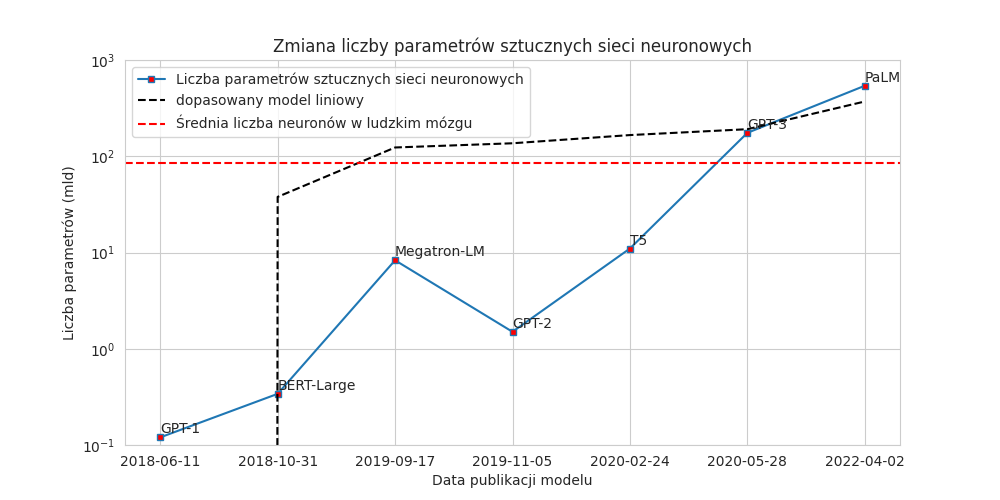
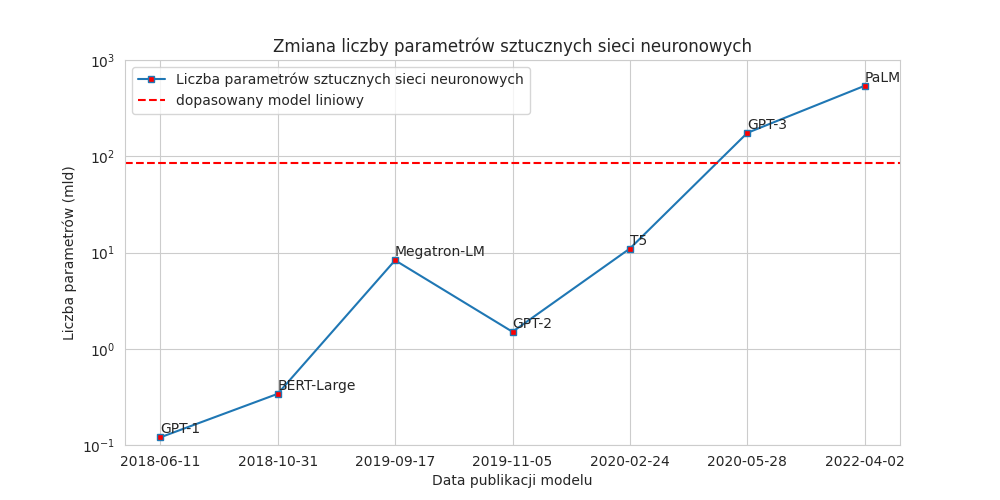
add recent

diff --git a/other/forward_pass.py b/other/forward_pass.py
@@ -1,0 +1,80 @@
+import snntorch as snn
+import snntorch.functional as SF
+
+import torch
+import torch.nn as nn
+
+import numpy as np
+import matplotlib.pyplot as plt
+
+from toolbox import forward_pass
+
+torch.set_printoptions(precision=3, sci_mode=False, linewidth=150)
+
+def plot_spiking_history(spk, mem):
+    mem = mem.squeeze()
+    spk = spk.squeeze()
+    n_neurons = mem.shape[1]
+    n_steps = mem.shape[0]
+
+    for n in range(n_neurons):
+        plt.plot(mem[:, n])
+
+    for step in range(n_steps):
+        for n in range(n_neurons):
+            if spk[step, n] == 1:
+                plt.axvline(step, linestyle="--")
+
+num_inputs = 2
+num_hidden = 2
+num_outputs = 2
+num_steps = 100
+beta = 0.99
+
+class Net(nn.Module):
+    def __init__(self):
+        super().__init__()
+
+        # Initialize layers
+        self.fc1 = nn.Linear(num_inputs, num_hidden)
+        self.lif1 = snn.Leaky(beta=beta)
+        self.fc2 = nn.Linear(num_hidden, num_outputs)
+        self.lif2 = snn.Leaky(beta=beta)
+
+    def forward(self, x):
+
+        # Initialize hidden states at t=0
+        mem1 = self.lif1.init_leaky()
+        mem2 = self.lif2.init_leaky()
+
+        # Record the final layer
+        spk2_rec = []
+        mem2_rec = []
+
+        for step in range(num_steps):
+            print("\n\n\nstep:", step)
+            cur1 = self.fc1(x)
+            print("cur1 is \n", cur1)
+            spk1, mem1 = self.lif1(cur1, mem1)
+            print("spk1 is \n", spk1, "\nmem1 is \n", mem1)
+            cur2 = self.fc2(spk1)
+            print("cur2 is \n", cur2, "\nmem2 is \n", mem2)
+            spk2, mem2 = self.lif2(cur2, mem2)
+            print("spk2 is \n", spk2)
+            spk2_rec.append(spk2)
+            mem2_rec.append(mem2)
+
+        return torch.stack(spk2_rec, dim=0), torch.stack(mem2_rec, dim=0)
+
+    
+net = Net()
+
+for name, param in net.named_parameters():
+    print(name, param.data)
+
+with torch.no_grad():
+    net.eval()
+    x = torch.tensor([[0, 1]], dtype=torch.float32)
+    spk, mem = net(x)
+
+plot_spiking_history(spk, mem)

diff --git a/other/activation_snn.py b/other/activation_snn.py
@@ -1,0 +1,69 @@
+import snntorch as snn
+import snntorch.functional as SF
+
+import torch
+import torch.nn as nn
+
+import numpy as np
+import matplotlib.pyplot as plt
+
+from toolbox import forward_pass
+import seaborn as sns
+
+sns.set_style("whitegrid")
+
+# simple snn model 
+net = nn.Sequential(
+    # nn.Linear(1, 1, bias=False),
+    snn.Leaky(beta=0.99, threshold=0.5, spike_grad=True, init_hidden=True, output=True)
+)
+
+# optimizer = torch.optim.Adam(net.parameters(), lr=0.01)
+# loss_fn = SF.mse_count_loss(correct_rate=0.9, incorrect_rate=0.2)
+
+def plot_neuron():
+    n_neurons = 1
+    x = torch.rand(n_neurons)
+    x = torch.tensor([0.01])
+    u = torch.zeros(n_neurons)
+    leaky = snn.Leaky(beta=0.99, threshold=0.9, output=True)
+
+    u_hist = [u]
+    s_hist = [0]
+    for i in range(1000):
+        s, u = leaky(x, u)
+        u_hist.append(u)
+        s_hist.append(s)
+
+    plt.plot(s_hist, marker="", color="red", label="wzbudzenie neuronu")
+    plt.plot(u_hist, marker="", label="napięcie membrany")
+    plt.xlim(0, 1000)
+    plt.xlabel("krok czasu")
+    plt.legend()
+
+plot_neuron()
+plt.show()
+
+def plot_heaviside():
+    x = np.arange(0, 2, 0.001)
+    y = list(map(lambda x: 1 if x > 0.9 else 0, x))
+    plt.plot(x, y)
+    plt.ylabel("wzbudzenie neuronu")
+    plt.xlabel("napięcie membrany")
+    plt.xlim(0, 2)
+
+plot_heaviside()
+plt.show()
+
+# final plot
+plt.figure(figsize=(10, 5))
+
+plt.subplot(1, 2, 1)
+plot_heaviside()
+plt.title("Funkcja aktywacji w sieci pulsującej \n dla progu pobudliwości neuronu $\\theta=0.9$")
+
+plt.subplot(1, 2, 2)
+plot_neuron()
+plt.title("Zachowanie neuronu w sieci pulsującej \n dla stałego napięcia")
+
+plt.suptitle("Sposób zachowania pojedynczego neuronu pulsującego", y=1.02)

diff --git a/other/surrogate.py b/other/surrogate.py
@@ -1,0 +1,74 @@
+import snntorch as snn
+import snntorch.functional as SF
+
+import torch
+import torch.nn as nn
+
+import numpy as np
+import matplotlib.pyplot as plt
+
+from toolbox import forward_pass
+import seaborn as sns
+
+sns.set_style("whitegrid")
+
+def plot_dirac():
+    theta = 0.9
+    def dirac(theta, x):
+        return list(map(lambda x: 1 if abs((x-theta)) < 0.001 else 0, x))
+    x = np.arange(-10, 10, 0.001)
+    y = dirac(theta, x)
+    plt.plot(x, y)
+
+def plot_sigmoid_derivative():
+    theta = 0.9
+    def sigmoid_derivative(theta, x):
+        top = np.exp(theta-x)
+        bot = (top + 1)**2
+        return top/bot
+    x = np.arange(-10, 10, 0.001)
+    y = sigmoid_derivative(theta, x)
+    plt.plot(x, y)
+
+
+def plot_sigmoid():
+    theta = 0.9
+    def sigmoid(x):
+        return 1/(1 + np.exp(theta-x))
+    x = np.arange(-10, 10, 0.001)
+    y = sigmoid(x)
+    plt.plot(x, y)
+
+
+def plot_heaviside():
+    x = np.arange(-10, 10, 0.001)
+    y = list(map(lambda x: 1 if x > 0.9 else 0, x))
+    plt.plot(x, y)
+    plt.xlim(0, 2)
+
+# final plot
+def plot_final():
+    plt.figure(figsize=(7, 7))
+
+    plt.subplot(2, 2, 1)
+    plt.title("Funkcja Heavisidea")
+    plot_heaviside()
+
+    plt.subplot(2, 2, 2)
+    plt.title("Funkcja sigmoidalna")
+    plot_sigmoid()
+
+    plt.subplot(2, 2, 3)
+    plt.title("Pochodna funkcji Heavisidea \n Delta Diraca")
+    plot_dirac()
+
+    plt.subplot(2, 2, 4)
+    plt.title("Pochodna funkcji sigmoidalnej")
+    plot_sigmoid_derivative()
+
+    for ax in plt.gcf().get_axes():
+        ax.set_ylim(-.01, 1.01)
+        ax.set_xlim(0.9-3, 0.9+3)
+
+plot_final()
+plt.tight_layout()

diff --git a/other/n_params.py b/other/n_params.py
@@ -26,15 +26,31 @@ model = [d[1] for d in data]
 params = [d[2] for d in data]
 
 df = pd.DataFrame({"model": model, "params": params}, index=date)
-df["days"] = pd.to_datetime(df.reset_index()["index"]).diff().fillna(pd.Timedelta("0D")).dt.days.values.cumsum()
+df["days"] = pd.to_datetime(df.reset_index()["index"]).diff().fillna(pd.Timedelta("1D")).dt.days.values.cumsum()
 
 # fit linear model
 from sklearn.linear_model import LinearRegression
 
 X = df["days"].values.reshape(-1, 1)
-y = df["params"].values.reshape(-1, 1)
+y = np.log(df["params"].values.reshape(-1, 1))
 
-reg = LinearRegression(fit_intercept=False).fit(X, y)
+reg = LinearRegression().fit(X, y)
+df["pred"] = reg.predict(df.days.values.reshape(-1,1)).reshape(1, -1).squeeze()
+
+
+# fit log-linear model
+# X = X.reshape(1, -1).squeeze()
+# y = y.reshape(1, -1).squeeze()
+# a, b = np.polyfit(np.log(X), y, 1)
+
+# # fit exponential model
+# def exponential_func(x, a, b, c):
+#     return a * np.exp(-b * x) + c
+
+# from scipy.optimize import curve_fit
+
+# popt, pcov = curve_fit(exponential_func, X, y, p0=(1, 1e-6, 1))
+# a, b, c = popt
 
 # plot
 plt.figure(figsize=(10, 5))
@@ -50,7 +66,9 @@ for i in data:
 
 
 # plot log-linear model
-plt.plot(df.index, reg.predict(X), linestyle="--", color="black")
+# plt.plot(df.index, reg.predict(X), linestyle="--", color="black")
+# plt.plot(df.index, a*np.log(X)+b)
+# plt.plot(df.index, a*np.log(np.arange(0, 1400))+b)
 
 plt.yscale("log")
 # plt.xlim(df.index[0], df.index[-1])

diff --git a/continous_samples/04_show_summary.py b/continous_samples/04_show_summary.py
@@ -1,0 +1,57 @@
+import torch
+import torch.nn as nn
+from torch.utils.data import DataLoader
+from torch import Tensor
+
+import pandas as pd
+import numpy as np
+import matplotlib.pyplot as plt
+import os
+import random
+import itertools
+from tqdm import tqdm
+
+import snntorch as snn
+from snntorch import surrogate
+from snntorch import utils
+import snntorch.functional as SF
+import snntorch.spikeplot as splt
+
+import sys
+
+sys.path.append("../")
+from toolbox import (
+    continous_and_generator,
+    continous_or_generator,
+    continous_xor_generator,
+    forward_pass,
+    set_seed,
+    Config,
+    clear_print,
+    get_git_revision_hash,
+)
+
+np.printoptions(precision=3)
+
+def show_summary(results) -> None:
+    fig, ax = plt.subplots(1, 3, figsize=(15, 15))
+    results.xs(("loss", "train"), level=("stat", "mode"), axis=1).plot(
+        figsize=(15, 5), legend=False, ax=ax[0]
+    )
+    results.xs(("accuracy", "train"), level=("stat", "mode"), axis=1).plot(
+        figsize=(15, 5), legend=False, ax=ax[1]
+    )
+    results.xs(("f1", "train"), level=("stat", "mode"), axis=1).plot(
+        figsize=(15, 5), legend=False, ax=ax[2]
+    )
+    plt.suptitle("Train summary")
+    plt.tight_layout()
+    plt.show()
+
+def load_results(path: str) -> pd.DataFrame:
+    results = pd.read_csv(path, index_col=[0], header=[0, 1, 2, 3, 4])
+    return results
+    
+results = load_results("results_1add73e8c0fe24a08ed58ec2df2ba0d457164e03.csv")
+
+show_summary(results)

diff --git a/other/activation_functions.py b/other/activation_functions.py
@@ -1,0 +1,47 @@
+import pandas as pd
+import matplotlib.pyplot as plt
+import matplotlib.dates as mdates
+import numpy as np
+
+import seaborn as sns
+
+sns.set_style("whitegrid")
+
+x = np.linspace(-2, 2, 1000)
+
+def relu(x):
+    return np.maximum(0, x)
+
+def tanh(x):
+    return np.tanh(x)
+
+def sigmoid(x):
+    return 1 / (1 + np.exp(-x))
+
+y_lim = (-1, 1)
+x_lim = (-2, 2)
+
+plt.figure(figsize=(15, 5))
+plt.suptitle("Przykładowe funkcje aktywacji")
+
+plt.subplot(1, 3, 1)
+plt.plot(x, relu(x), label="ReLU")
+plt.title("ReLU")
+plt.ylim(y_lim)
+plt.xlim(x_lim)
+
+plt.subplot(1, 3, 2)
+plt.plot(x, tanh(x), label="tanh")
+plt.title("tanh")
+plt.ylim(y_lim)
+plt.xlim(x_lim)
+
+plt.subplot(1, 3, 3)
+plt.plot(x, sigmoid(x), label="sigmoid")
+plt.title("sigmoid")
+plt.ylim(y_lim)
+plt.xlim(x_lim)
+
+for ax in plt.gcf().axes:
+    ax.set_xlabel("wejście")
+    ax.set_ylabel("wyjście")

diff --git a/other/loss.py b/other/loss.py
@@ -25,3 +25,4 @@ y = torch.tensor([[1, 0], [1, 0], [1, 0], [0, 1]], dtype=torch.float32)
 y_pred = forward_pass(net, x, 10)
 
 loss = loss_fn(y_pred, y)
+    
